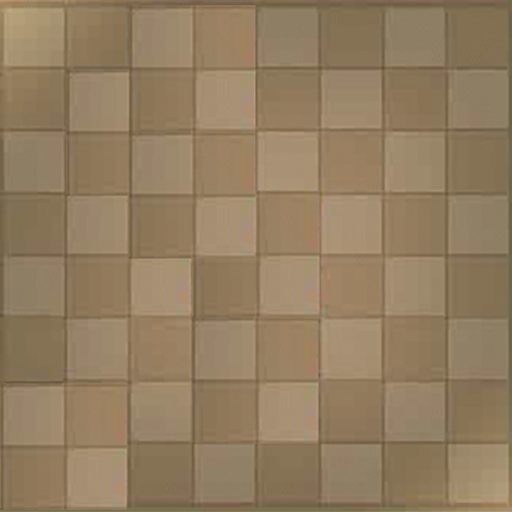
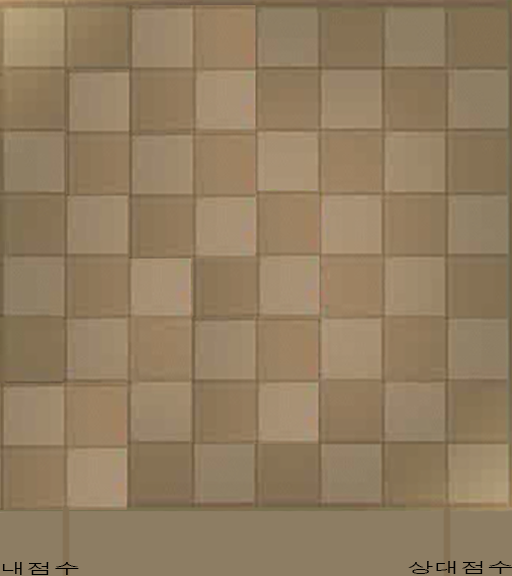
실시간 점수 추가

diff --git a/gameboard.py b/gameboard.py
@@ -13,10 +13,8 @@ game = Game.Game()
 def make_text(text,x, y):
     font = pygame.font.Font('freesansbold.ttf', 25)
     surf = font.render(text, True, BLACK, colour)
-    rect = surf.get_rect()
-    rect.center = (x, y)
-    gamepad.blit(surf, rect)
-    return rect
+    gamepad.blit(surf, (x,y))
+    return (x,y)
 
 
 
@@ -72,12 +70,13 @@ def rungame():
                     
                     i = i + 1
 
-                       
+                make_text(str(point_player),0,512)
+                make_text(str(point_com),448,512)       
                        
                 if len(game.getPlaceable(1))==0 and len(game.getPlaceable(-1))==0 :
                     gamepad.blit(gameover, (0,32))
                     gamecontinue = False
-                    make_text('you '+str(point_player)+' vs '+' computer '+str(point_com),256, 128)
+                    make_text('you '+str(point_player)+' vs '+' computer '+str(point_com),128, 128)
                 print(len(game.getPlaceable(1)),len(game.getPlaceable(-1)))               
 
         pygame.display.update()
